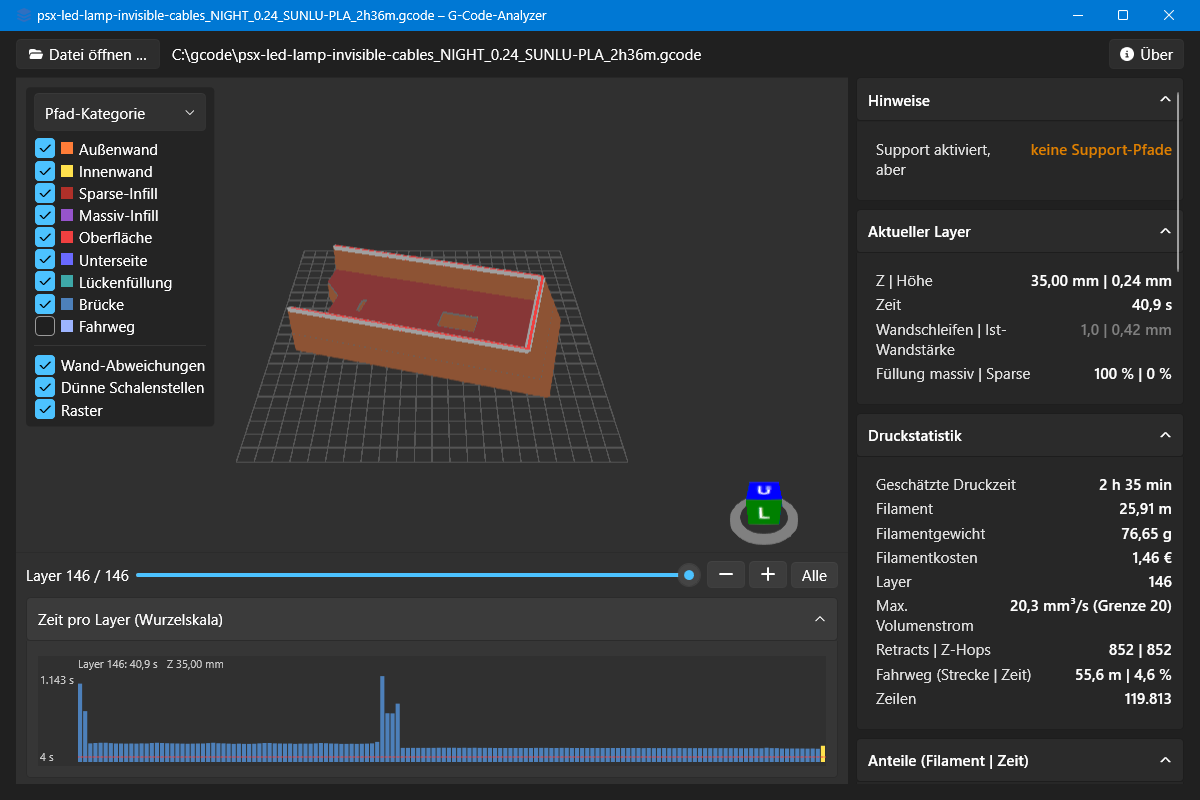
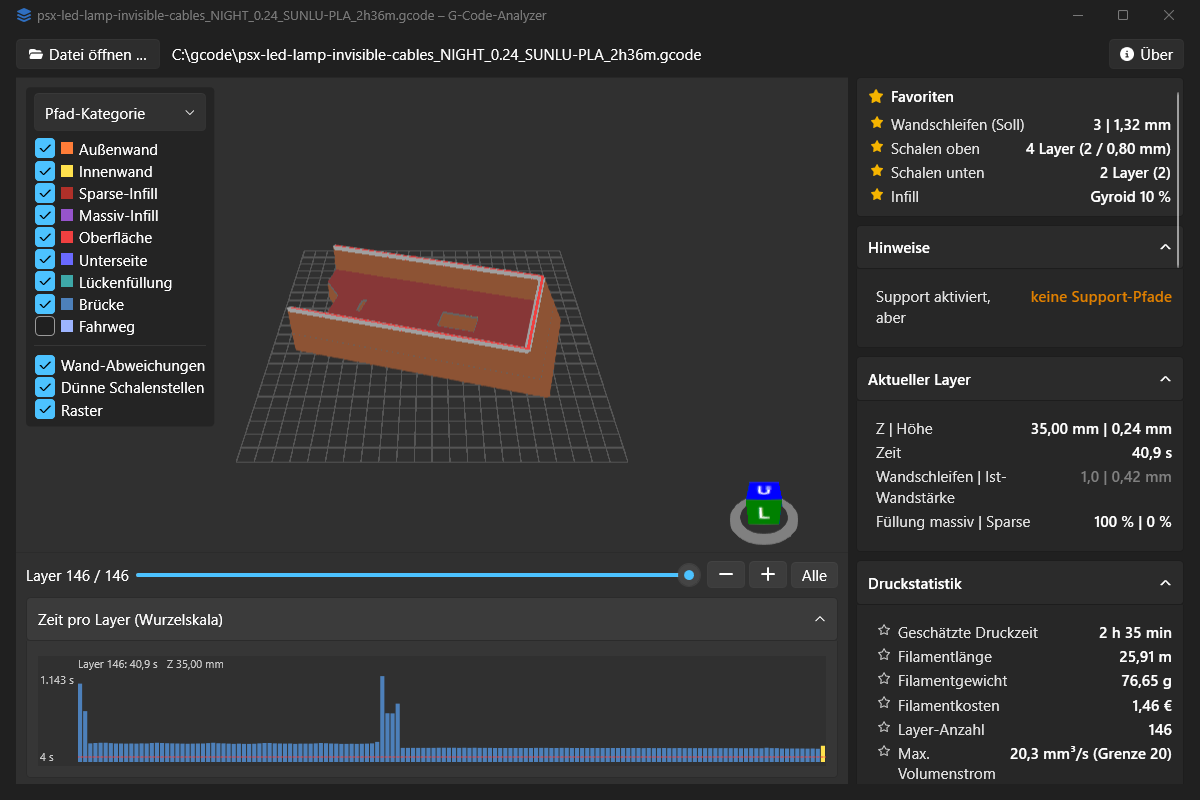
Favoriten oben in der Seitenleiste (#12)
Bereich Favoriten ganz oben, nicht einklappbar; jede Zeile außer in
Hinweise und Aktueller Layer per Stern anheftbar, Auswahl in
%AppData%\GcodeAnalyzer\favoriten.json. Standard: Wandschleifen (Soll),
Schalen oben/unten, Infill. Zeilen ohne Abschnitt eindeutig benannt,
Schalen eingestellt/effektiv und Infill Muster/Dichte zusammengefasst.

Closes #12

Claude-Session: https://claude.ai/code/session_0137NAZDBk3yrCHW3giu4LYJ

diff --git a/src/GcodeAnalyzer.App/MainWindow.xaml b/src/GcodeAnalyzer.App/MainWindow.xaml
@@ -5,6 +5,48 @@
         xmlns:local="clr-namespace:GcodeAnalyzer.App"
         Title="G-Code-Analyzer" Height="800" Width="1200" MinWidth="700" MinHeight="450"
         Icon="app.ico" AllowDrop="True" Drop="OnDrop" DragOver="OnDragOver">
+    <Window.Resources>
+        <BooleanToVisibilityConverter x:Key="BoolToVis"/>
+        <!-- Zeile der Seitenleiste: Stern zum Anheften, Beschriftung, Wert -->
+        <DataTemplate x:Key="RowTemplate">
+            <DockPanel Margin="0,2">
+                <Button DockPanel.Dock="Left" Click="OnStarClick" Padding="2" Margin="0,0,6,0" MinWidth="0" MinHeight="0"
+                        Background="Transparent" BorderThickness="0" VerticalAlignment="Top"
+                        Visibility="{Binding Pinnable, Converter={StaticResource BoolToVis}}"
+                        ToolTip="Als Favorit oben anzeigen" AutomationProperties.Name="{Binding Label, StringFormat=Favorit {0}}">
+                    <Path Width="12" Height="12" Stretch="Uniform">
+                        <Path.Style>
+                            <Style TargetType="Path">
+                                <Setter Property="Data" Value="{StaticResource Icon.star-regular}"/>
+                                <Setter Property="Fill" Value="{DynamicResource TextFillColorSecondaryBrush}"/>
+                                <Style.Triggers>
+                                    <DataTrigger Binding="{Binding IsFavorite}" Value="True">
+                                        <Setter Property="Data" Value="{StaticResource Icon.star}"/>
+                                        <Setter Property="Fill" Value="#F5B400"/>
+                                    </DataTrigger>
+                                </Style.Triggers>
+                            </Style>
+                        </Path.Style>
+                    </Path>
+                </Button>
+                <TextBlock DockPanel.Dock="Right" Text="{Binding Value}" FontWeight="SemiBold" MaxWidth="190"
+                           TextTrimming="CharacterEllipsis" ToolTip="{Binding Value}" Margin="8,0,0,0">
+                    <TextBlock.Style>
+                        <!-- Statusfarbe nur, wenn gesetzt; sonst Textfarbe des Themes -->
+                        <Style TargetType="TextBlock">
+                            <Setter Property="Foreground" Value="{Binding Brush}"/>
+                            <Style.Triggers>
+                                <DataTrigger Binding="{Binding Brush}" Value="{x:Null}">
+                                    <Setter Property="Foreground" Value="{DynamicResource TextFillColorPrimaryBrush}"/>
+                                </DataTrigger>
+                            </Style.Triggers>
+                        </Style>
+                    </TextBlock.Style>
+                </TextBlock>
+                <TextBlock Text="{Binding Label}" Foreground="{DynamicResource TextFillColorSecondaryBrush}" TextWrapping="Wrap"/>
+            </DockPanel>
+        </DataTemplate>
+    </Window.Resources>
     <Grid>
         <Grid.RowDefinitions>
             <RowDefinition Height="Auto"/>
@@ -124,36 +166,29 @@
 
         <ScrollViewer Grid.Row="1" Grid.Column="1" Margin="4,0,8,8" VerticalScrollBarVisibility="Auto">
             <StackPanel>
+                <!-- Favoriten: immer oben, nicht einklappbar -->
+                <Border Margin="0,0,0,8" Padding="12,8" CornerRadius="4" BorderThickness="1"
+                        Background="{DynamicResource CardBackgroundFillColorDefaultBrush}"
+                        BorderBrush="{DynamicResource CardStrokeColorDefaultBrush}">
+                    <StackPanel>
+                        <StackPanel Orientation="Horizontal" Margin="0,0,0,6">
+                            <Path Data="{StaticResource Icon.star}" Fill="#F5B400" Width="14" Height="14" Stretch="Uniform" VerticalAlignment="Center"/>
+                            <TextBlock Text="Favoriten" FontWeight="SemiBold" FontSize="15" Margin="8,0,0,0" VerticalAlignment="Center"/>
+                        </StackPanel>
+                        <ItemsControl x:Name="FavoriteList" ItemTemplate="{StaticResource RowTemplate}" FontSize="15"/>
+                        <TextBlock x:Name="FavoriteHint" TextWrapping="Wrap" Foreground="{DynamicResource TextFillColorSecondaryBrush}"
+                                   Text="Stern ☆ neben einem Wert anklicken, um ihn hier anzuzeigen" Visibility="Collapsed"/>
+                    </StackPanel>
+                </Border>
                 <ItemsControl x:Name="Sections">
                     <ItemsControl.ItemTemplate>
                         <DataTemplate>
                             <Expander Header="{Binding Title}" IsExpanded="True" Margin="0,0,0,8" FontWeight="SemiBold">
                                 <StackPanel>
-                                <ItemsControl ItemsSource="{Binding Rows}" Margin="8,4,0,0" FontWeight="Normal">
-                                    <ItemsControl.ItemTemplate>
-                                        <DataTemplate>
-                                            <DockPanel Margin="0,2">
-                                                <TextBlock DockPanel.Dock="Right" Text="{Binding Value}" FontWeight="SemiBold" MaxWidth="190"
-                                                           TextTrimming="CharacterEllipsis" ToolTip="{Binding Value}" Margin="8,0,0,0">
-                                                    <TextBlock.Style>
-                                                        <!-- Statusfarbe nur, wenn gesetzt; sonst Textfarbe des Themes -->
-                                                        <Style TargetType="TextBlock">
-                                                            <Setter Property="Foreground" Value="{Binding Brush}"/>
-                                                            <Style.Triggers>
-                                                                <DataTrigger Binding="{Binding Brush}" Value="{x:Null}">
-                                                                    <Setter Property="Foreground" Value="{DynamicResource TextFillColorPrimaryBrush}"/>
-                                                                </DataTrigger>
-                                                            </Style.Triggers>
-                                                        </Style>
-                                                    </TextBlock.Style>
-                                                </TextBlock>
-                                                <TextBlock Text="{Binding Label}" Foreground="{DynamicResource TextFillColorSecondaryBrush}" TextWrapping="Wrap"/>
-                                            </DockPanel>
-                                        </DataTemplate>
-                                    </ItemsControl.ItemTemplate>
-                                </ItemsControl>
-                                <!-- Vorschaubild aus der G-Code-Datei (nur im Abschnitt "Datei") -->
-                                <Image Source="{Binding Image}" Stretch="Uniform" MaxHeight="180" Margin="0,8,0,0"/>
+                                    <ItemsControl ItemsSource="{Binding Rows}" Margin="8,4,0,0" FontWeight="Normal"
+                                                  ItemTemplate="{StaticResource RowTemplate}"/>
+                                    <!-- Vorschaubild aus der G-Code-Datei (nur im Abschnitt "Datei") -->
+                                    <Image Source="{Binding Image}" Stretch="Uniform" MaxHeight="180" Margin="0,8,0,0"/>
                                 </StackPanel>
                             </Expander>
                         </DataTemplate>

diff --git a/src/GcodeAnalyzer.App/Icons.xaml b/src/GcodeAnalyzer.App/Icons.xaml
@@ -1,5 +1,5 @@
 <!-- Font Awesome Free 7.3.1 (https://fontawesome.com), Icons: CC BY 4.0 (https://creativecommons.org/licenses/by/4.0/).
-     Pfade aus @fortawesome/fontawesome-free/svgs/solid, damit die App ohne Internet auskommt. -->
+     Pfade aus @fortawesome/fontawesome-free/svgs (solid, star auch regular), damit die App ohne Internet auskommt. -->
 <ResourceDictionary xmlns="http://schemas.microsoft.com/winfx/2006/xaml/presentation"
                     xmlns:x="http://schemas.microsoft.com/winfx/2006/xaml">
     <Geometry x:Key="Icon.layer-group">F1 M232.5 5.2c14.9-6.9 32.1-6.9 47 0l218.6 101c8.5 3.9 13.9 12.4 13.9 21.8s-5.4 17.9-13.9 21.8l-218.6 101c-14.9 6.9-32.1 6.9-47 0L13.9 149.8C5.4 145.8 0 137.3 0 128s5.4-17.9 13.9-21.8L232.5 5.2zM48.1 218.4l164.3 75.9c27.7 12.8 59.6 12.8 87.3 0l164.3-75.9 34.1 15.8c8.5 3.9 13.9 12.4 13.9 21.8s-5.4 17.9-13.9 21.8l-218.6 101c-14.9 6.9-32.1 6.9-47 0L13.9 277.8C5.4 273.8 0 265.3 0 256s5.4-17.9 13.9-21.8l34.1-15.8zM13.9 362.2l34.1-15.8 164.3 75.9c27.7 12.8 59.6 12.8 87.3 0l164.3-75.9 34.1 15.8c8.5 3.9 13.9 12.4 13.9 21.8s-5.4 17.9-13.9 21.8l-218.6 101c-14.9 6.9-32.1 6.9-47 0L13.9 405.8C5.4 401.8 0 393.3 0 384s5.4-17.9 13.9-21.8z</Geometry>
@@ -8,4 +8,6 @@
     <Geometry x:Key="Icon.minus">F1 M0 256c0-17.7 14.3-32 32-32l384 0c17.7 0 32 14.3 32 32s-14.3 32-32 32L32 288c-17.7 0-32-14.3-32-32z</Geometry>
     <Geometry x:Key="Icon.plus">F1 M256 64c0-17.7-14.3-32-32-32s-32 14.3-32 32l0 160-160 0c-17.7 0-32 14.3-32 32s14.3 32 32 32l160 0 0 160c0 17.7 14.3 32 32 32s32-14.3 32-32l0-160 160 0c17.7 0 32-14.3 32-32s-14.3-32-32-32l-160 0 0-160z</Geometry>
     <Geometry x:Key="Icon.triangle-exclamation">F1 M256 0c14.7 0 28.2 8.1 35.2 21l216 400c6.7 12.4 6.4 27.4-.8 39.5S486.1 480 472 480L40 480c-14.1 0-27.2-7.4-34.4-19.5s-7.5-27.1-.8-39.5l216-400c7-12.9 20.5-21 35.2-21zm0 352a32 32 0 1 0 0 64 32 32 0 1 0 0-64zm0-192c-18.2 0-32.7 15.5-31.4 33.7l7.4 104c.9 12.5 11.4 22.3 23.9 22.3 12.6 0 23-9.7 23.9-22.3l7.4-104c1.3-18.2-13.1-33.7-31.4-33.7z</Geometry>
+    <Geometry x:Key="Icon.star">F1 M309.5-18.9c-4.1-8-12.4-13.1-21.4-13.1s-17.3 5.1-21.4 13.1L193.1 125.3 33.2 150.7c-8.9 1.4-16.3 7.7-19.1 16.3s-.5 18 5.8 24.4l114.4 114.5-25.2 159.9c-1.4 8.9 2.3 17.9 9.6 23.2s16.9 6.1 25 2L288.1 417.6 432.4 491c8 4.1 17.7 3.3 25-2s11-14.2 9.6-23.2L441.7 305.9 556.1 191.4c6.4-6.4 8.6-15.8 5.8-24.4s-10.1-14.9-19.1-16.3L383 125.3 309.5-18.9z</Geometry>
+    <Geometry x:Key="Icon.star-regular">F1 M288.1-32c9 0 17.3 5.1 21.4 13.1L383 125.3 542.9 150.7c8.9 1.4 16.3 7.7 19.1 16.3s.5 18-5.8 24.4L441.7 305.9 467 465.8c1.4 8.9-2.3 17.9-9.6 23.2s-17 6.1-25 2L288.1 417.6 143.8 491c-8 4.1-17.7 3.3-25-2s-11-14.2-9.6-23.2L134.4 305.9 20 191.4c-6.4-6.4-8.6-15.8-5.8-24.4s10.1-14.9 19.1-16.3l159.9-25.4 73.6-144.2c4.1-8 12.4-13.1 21.4-13.1zm0 76.8L230.3 158c-3.5 6.8-10 11.6-17.6 12.8l-125.5 20 89.8 89.9c5.4 5.4 7.9 13.1 6.7 20.7l-19.8 125.5 113.3-57.6c6.8-3.5 14.9-3.5 21.8 0l113.3 57.6-19.8-125.5c-1.2-7.6 1.3-15.3 6.7-20.7l89.8-89.9-125.5-20c-7.6-1.2-14.1-6-17.6-12.8L288.1 44.8z</Geometry>
 </ResourceDictionary>

diff --git a/src/GcodeAnalyzer.App/MainWindow.xaml.cs b/src/GcodeAnalyzer.App/MainWindow.xaml.cs
@@ -1,4 +1,6 @@
-using System.Globalization;
+using System.Collections.ObjectModel;
+using System.ComponentModel;
+using System.Globalization;
 using System.IO;
 using System.Windows;
 using System.Windows.Media;
@@ -9,7 +11,21 @@ using Microsoft.Win32;
 
 namespace GcodeAnalyzer.App;
 
-public record Row(string Label, string Value, Brush? Brush = null);
+/// <summary>Zeile der Seitenleiste; Label ist auch ohne Abschnitt eindeutig und Schlüssel der Favoriten.</summary>
+public sealed class Row(string label, string value, Brush? brush = null) : INotifyPropertyChanged
+{
+    public string Label { get; } = label;
+    public string Value { get; } = value;
+    public Brush? Brush { get; } = brush;
+    public bool Pinnable { get; init; } = true;
+    bool _isFavorite;
+    public bool IsFavorite
+    {
+        get => _isFavorite;
+        set { if (_isFavorite == value) return; _isFavorite = value; PropertyChanged?.Invoke(this, new(nameof(IsFavorite))); }
+    }
+    public event PropertyChangedEventHandler? PropertyChanged;
+}
 public record Section(string Title, IReadOnlyList<Row> Rows) { public ImageSource? Image { get; init; } }
 public record LegendItem(PathCategory Category, string Name, Brush Brush) { public bool IsVisible { get; set; } }
 
@@ -18,12 +34,17 @@ public partial class MainWindow : Window
     static readonly CultureInfo De = CultureInfo.GetCultureInfo("de-DE");
     PathScene? _scene;
     AnalysisResult? _result;
-    readonly System.Collections.ObjectModel.ObservableCollection<Row> _layerRows = [];
+    readonly ObservableCollection<Row> _layerRows = [];
+    readonly ObservableCollection<Row> _favoriteRows = [];
+    readonly HashSet<string> _favorites = Favorites.Load();
+    List<Section> _sections = [];
 
     public MainWindow()
     {
         InitializeComponent();
         Viewport.EffectsManager = new HelixToolkit.SharpDX.DefaultEffectsManager();
+        FavoriteList.ItemsSource = _favoriteRows;
+        RefreshFavorites();
         // "Öffnen mit" bzw. Start mit Dateipfad als Argument
         if (Environment.GetCommandLineArgs() is [_, var file, ..]) Loaded += (_, _) => _ = Load(file);
     }
@@ -87,52 +108,52 @@ public partial class MainWindow : Window
         Title = $"{r.FileName} – G-Code-Analyzer";
         _result = r;
 
-        var hints = r.Warnings.Select(w => new Row(w, "", new SolidColorBrush(Color.FromRgb(0xE0, 0x80, 0x00)))).ToList();
+        var hints = r.Warnings.Select(w => Info(w, "", new SolidColorBrush(Color.FromRgb(0xE0, 0x80, 0x00)))).ToList();
         if (r.ShortLayers.Count > 0)
-            hints.Add(new($"{r.ShortLayers.Count} Layer unter {N(r.MinLayerTime, 0)} s",
+            hints.Add(Info($"{r.ShortLayers.Count} Layer unter {N(r.MinLayerTime, 0)} s",
                 string.Join(", ", r.ShortLayers.Take(8).Select(i => i + 1)) + (r.ShortLayers.Count > 8 ? " …" : "")));
 
         var walls = r.Walls;
         var under = walls.Layers.Where(w => w.Status == WallStatus.Underrun).ToList();
         var expected = walls.Layers.Where(w => w.Status == WallStatus.ExpectedDeviation).ToList();
         if (under.Count > 0)
-            hints.Add(new($"Wand-Unterschreitung in {under.Count} Layern",
+            hints.Add(Info($"Wand-Unterschreitung in {under.Count} Layern",
                 string.Join(", ", under.Take(8).Select(w => w.Layer + 1)) + (under.Count > 8 ? " …" : ""), StatusBrush(WallStatus.Underrun)));
         var minWall = walls.Layers.MinBy(w => w.Loops);
         if (r.OverFlowLayers.Count > 0)
-            hints.Add(new($"Volumenstrom > {N(r.VolumetricFlowLimit, 0)} mm³/s in {r.OverFlowLayers.Count} Layern",
+            hints.Add(Info($"Volumenstrom > {N(r.VolumetricFlowLimit, 0)} mm³/s in {r.OverFlowLayers.Count} Layern",
                 string.Join(", ", r.OverFlowLayers.Take(8).Select(i => i + 1)) + (r.OverFlowLayers.Count > 8 ? " …" : ""),
                 new SolidColorBrush(PathScene.UnderrunColor)));
         var sup = r.Support;
         var warn = new SolidColorBrush(Color.FromRgb(0xE0, 0x80, 0x00));
         if (sup.Contradiction)
-            hints.Add(new("Support aktiviert, aber", "keine Support-Pfade", warn));
+            hints.Add(Info("Support aktiviert, aber", "keine Support-Pfade", warn));
         var shells = r.Shells;
         if (shells.ThinSpots.Count > 0)
-            hints.Add(new("Dünne Schalenstellen", $"{N(shells.ThinSpots.Count, 0)} Stellen", new SolidColorBrush(PathScene.ThinShellColor)));
+            hints.Add(Info("Dünne Schalenstellen", $"{N(shells.ThinSpots.Count, 0)} Stellen", new SolidColorBrush(PathScene.ThinShellColor)));
+        // "Schalen oben" = effektiv, in Klammern eingestellt (Anzahl / Mindestdicke)
         Row[] ShellRows(string side, ShellSide s) => [
-            new($"{side} eingestellt", s.SetThickness > 0 ? $"{s.SetLayers} Layer | {N(s.SetThickness, 2)} mm" : $"{s.SetLayers} Layer"),
-            new($"{side} effektiv", $"{s.Effective} Layer"),
-            new($"{side} gemessen", s.MeasuredMin is { } mn ? $"min. {mn} | Ø {N(s.MeasuredAvg ?? 0, 1)}" : "–",
+            new($"Schalen {side}", $"{s.Effective} Layer ({s.SetLayers}" + (s.SetThickness > 0 ? $" / {N(s.SetThickness, 2)} mm)" : ")")),
+            new($"Schalen {side} gemessen", s.MeasuredMin is { } mn ? $"min. {mn} | Ø {N(s.MeasuredAvg ?? 0, 1)}" : "–",
                 s.MeasuredMin < s.Effective ? new SolidColorBrush(PathScene.ThinShellColor) : null),
         ];
 
-        Sections.ItemsSource = new[]
+        _sections = new[]
         {
             new Section("Druckstatistik", [
                 new("Geschätzte Druckzeit", r.EstimatedTime is { } t ? Duration(t) : "–"),
-                new("Filament", r.FilamentLengthMm is { } mm ? $"{N(mm / 1000, 2)} m" : "–"),
+                new("Filamentlänge", r.FilamentLengthMm is { } mm ? $"{N(mm / 1000, 2)} m" : "–"),
                 new("Filamentgewicht", r.FilamentWeightG is { } g ? $"{N(g, 2)} g" : "–"),
                 new("Filamentkosten", r.FilamentCost is { } c ? $"{N(c, 2)} €" : "–"),
-                new("Layer", N(r.LayerCount, 0)),
+                new("Layer-Anzahl", N(r.LayerCount, 0)),
                 new("Max. Volumenstrom", $"{N(r.MaxVolumetricFlow, 1)} mm³/s (Grenze {N(r.VolumetricFlowLimit, 0)})",
                     r.OverFlowLayers.Count > 0 ? new SolidColorBrush(PathScene.UnderrunColor) : null),
                 new("Retracts | Z-Hops", $"{N(r.RetractCount, 0)} | {N(r.ZHopCount, 0)}"),
                 new("Fahrweg (Strecke | Zeit)", $"{N(r.TravelDistanceMm / 1000, 1)} m | {N(r.Shares.GetValueOrDefault(PathCategory.Travel)?.TimePercent ?? 0, 1)} %"),
-                new("Zeilen", N(r.LineCount, 0)),
+                new("G-Code-Zeilen", N(r.LineCount, 0)),
             ]),
             new Section("Anteile (Filament | Zeit)", r.Shares.OrderByDescending(kv => kv.Value.TimePercent)
-                .Select(kv => new Row(PathScene.Styles[kv.Key].Name, $"{N(kv.Value.FilamentPercent, 1)} % | {N(kv.Value.TimePercent, 1)} %"))
+                .Select(kv => new Row($"Anteil {PathScene.Styles[kv.Key].Name}", $"{N(kv.Value.FilamentPercent, 1)} % | {N(kv.Value.TimePercent, 1)} %"))
                 .ToList()),
             new Section("Abmessungen", [
                 new("Breite (X)", $"{N(r.Width, 1)} mm"),
@@ -148,40 +169,69 @@ public partial class MainWindow : Window
                 new("Filamenttyp", r.FilamentType ?? "–"),
             ]),
             new Section("Wände", [
-                new("Soll-Wandstärke", walls.TargetLoops > 0 ? $"{walls.TargetLoops} Schleifen | {N(walls.TargetThickness, 2)} mm" : "–"),
-                new("Ist-Wandstärke min.", minWall is null ? "–" : $"{N(minWall.Loops, 1)} Schleifen | {N(minWall.Thickness, 2)} mm",
+                new("Wandschleifen (Soll)", walls.TargetLoops > 0 ? $"{walls.TargetLoops} | {N(walls.TargetThickness, 2)} mm" : "–",
+                    under.Count > 0 ? StatusBrush(WallStatus.Underrun) : null),
+                new("Wandschleifen (Ist, min.)", minWall is null ? "–" : $"{N(minWall.Loops, 1)} | {N(minWall.Thickness, 2)} mm",
                     minWall is null ? null : StatusBrush(minWall.Status)),
-                new("Layer wie Soll", N(walls.Layers.Count(w => w.Status == WallStatus.Ok), 0)),
-                new("Erwartete Abweichung", N(expected.Count, 0), StatusBrush(WallStatus.ExpectedDeviation)),
+                new("Wand-Layer wie Soll", N(walls.Layers.Count(w => w.Status == WallStatus.Ok), 0)),
+                new("Erwartete Wand-Abweichung", N(expected.Count, 0), StatusBrush(WallStatus.ExpectedDeviation)),
                 new("Wand-Unterschreitung", N(under.Count, 0), under.Count > 0 ? StatusBrush(WallStatus.Underrun) : null),
             ]),
-            new Section("Schalen", [.. ShellRows("Oben", shells.Top), .. ShellRows("Unten", shells.Bottom),
+            new Section("Schalen", [.. ShellRows("oben", shells.Top), .. ShellRows("unten", shells.Bottom),
                 new("Dünne Schalenstellen", N(shells.ThinSpots.Count, 0), shells.ThinSpots.Count > 0 ? new SolidColorBrush(PathScene.ThinShellColor) : null),
             ]),
             new Section("Infill", [
-                new("Muster", r.InfillPattern is { Length: > 0 } pat ? char.ToUpper(pat[0]) + pat[1..] : "–"),
-                new("Dichte", r.InfillDensity is { } dens ? $"{N(dens, 0)} %" : "–"),
-                new("Linienbreite", r.InfillLineWidth is { } lw ? $"{N(lw, 2)} mm" : "–"),
+                new("Infill", string.Join(" ", new[] {
+                    r.InfillPattern is { Length: > 0 } pat ? char.ToUpper(pat[0]) + pat[1..] : null,
+                    r.InfillDensity is { } dens ? $"{N(dens, 0)} %" : null }.Where(x => x != null)) is { Length: > 0 } inf ? inf : "–"),
+                new("Infill-Linienbreite", r.InfillLineWidth is { } lw ? $"{N(lw, 2)} mm" : "–"),
                 new("Sparse-Infill (Filament | Zeit)", r.Shares.TryGetValue(PathCategory.SparseInfill, out var sp)
                     ? $"{N(sp.FilamentPercent, 1)} % | {N(sp.TimePercent, 1)} %" : "–"),
                 new("Layer mit massiver Füllung", N(r.Layers.Count(l => l.SolidFillMm > 0), 0)),
                 new("Layer nur mit Sparse-Infill", N(r.Layers.Count(l => l.SolidFillMm == 0 && l.SparseFillMm > 0), 0)),
             ]),
             new Section("Support", [
-                new("Aktiviert", sup.Enabled ? "ja" : "nein"),
-                new("Typ", sup.Type ?? "–"),
-                new("Nur auf Druckbett", sup.BuildPlateOnly is { } bp ? (bp ? "ja" : "nein") : "–"),
+                new("Support aktiviert", sup.Enabled ? "ja" : "nein"),
+                new("Support-Typ", sup.Type ?? "–"),
+                new("Support nur auf Druckbett", sup.BuildPlateOnly is { } bp ? (bp ? "ja" : "nein") : "–"),
                 new("Support-Pfade", sup.HasPaths ? "vorhanden" : "keine", sup.Contradiction ? warn : null),
-                new("Anteil (Filament | Zeit)", sup.HasPaths ? $"{N(sup.FilamentPercent, 1)} % | {N(sup.TimePercent, 1)} %" : "–"),
+                new("Support-Anteil (Filament | Zeit)", sup.HasPaths ? $"{N(sup.FilamentPercent, 1)} % | {N(sup.TimePercent, 1)} %" : "–"),
             ]),
             new Section("Datei", [
-                new("Name", r.FileName),
-                new("Größe", $"{N(r.FileSize / 1024.0 / 1024.0, 1)} MB"),
+                new("Dateiname", r.FileName),
+                new("Dateigröße", $"{N(r.FileSize / 1024.0 / 1024.0, 1)} MB"),
                 new("Slicer", r.SlicerName is null ? "unbekannt" : $"{r.SlicerName} {r.SlicerVersion}"),
             ]) { Image = ToImage(r.Thumbnail) },
         }.Prepend(new Section("Aktueller Layer", _layerRows))
          .Prepend(new Section("Hinweise", hints)).Where(sec => sec.Rows.Count > 0 || sec.Rows == _layerRows).ToList();
+        Sections.ItemsSource = _sections;
+        RefreshFavorites();
         ShowScene(r);
+    }
+
+    static Row Info(string label, string value, Brush? brush = null) => new(label, value, brush) { Pinnable = false };
+
+    void OnStarClick(object sender, RoutedEventArgs e)
+    {
+        if (sender is not FrameworkElement { DataContext: Row row }) return;
+        if (!_favorites.Remove(row.Label)) _favorites.Add(row.Label);
+        Favorites.Save(_favorites);
+        RefreshFavorites();
+    }
+
+    /// <summary>Sterne setzen und Favoriten in Reihenfolge der Seitenleiste oben anzeigen.</summary>
+    void RefreshFavorites()
+    {
+        _favoriteRows.Clear();
+        foreach (var row in _sections.SelectMany(sec => sec.Rows).Where(row => row.Pinnable))
+        {
+            row.IsFavorite = _favorites.Contains(row.Label);
+            if (row.IsFavorite) _favoriteRows.Add(row);
+        }
+        FavoriteHint.Visibility = _favoriteRows.Count == 0 ? Visibility.Visible : Visibility.Collapsed;
+        if (_result == null && _favoriteRows.Count == 0 && _favorites.Count > 0)
+            FavoriteHint.Text = "Werte erscheinen nach dem Öffnen einer Datei";
+        else FavoriteHint.Text = "Stern ☆ neben einem Wert anklicken, um ihn hier anzuzeigen";
     }
 
     void UpdateLayerRows(int i)
@@ -190,11 +240,11 @@ public partial class MainWindow : Window
         if (_result is null || i < 0 || i >= _result.LayerCount) return;
         var l = _result.Layers[i];
         double fill = l.SolidFillMm + l.SparseFillMm;
-        _layerRows.Add(new("Z | Höhe", $"{N(l.Z, 2)} mm | {N(l.Height, 2)} mm"));
-        _layerRows.Add(new("Zeit", $"{N(l.Time, 1)} s"));
+        _layerRows.Add(Info("Z | Höhe", $"{N(l.Z, 2)} mm | {N(l.Height, 2)} mm"));
+        _layerRows.Add(Info("Zeit", $"{N(l.Time, 1)} s"));
         if (_result.Walls.Layers.FirstOrDefault(w => w.Layer == i) is { } lw)
-            _layerRows.Add(new("Wandschleifen | Ist-Wandstärke", $"{N(lw.Loops, 1)} | {N(lw.Thickness, 2)} mm", StatusBrush(lw.Status)));
-        _layerRows.Add(new("Füllung massiv | Sparse", fill > 0 ? $"{N(l.SolidFillMm / fill * 100, 0)} % | {N(l.SparseFillMm / fill * 100, 0)} %" : "–"));
+            _layerRows.Add(Info("Wandschleifen | Ist-Wandstärke", $"{N(lw.Loops, 1)} | {N(lw.Thickness, 2)} mm", StatusBrush(lw.Status)));
+        _layerRows.Add(Info("Füllung massiv | Sparse", fill > 0 ? $"{N(l.SolidFillMm / fill * 100, 0)} % | {N(l.SparseFillMm / fill * 100, 0)} %" : "–"));
     }
 
     void ShowScene(AnalysisResult r)

diff --git a/src/GcodeAnalyzer.App/Favorites.cs b/src/GcodeAnalyzer.App/Favorites.cs
@@ -1,0 +1,34 @@
+using System.IO;
+using System.Text.Json;
+
+namespace GcodeAnalyzer.App;
+
+/// <summary>Favoriten (angeheftete Zeilen der Seitenleiste) als Liste ihrer Beschriftungen in %AppData%\GcodeAnalyzer.</summary>
+public static class Favorites
+{
+    static readonly string FilePath = Path.Combine(
+        Environment.GetFolderPath(Environment.SpecialFolder.ApplicationData), "GcodeAnalyzer", "favoriten.json");
+
+    public static readonly string[] Defaults = ["Wandschleifen (Soll)", "Schalen oben", "Schalen unten", "Infill"];
+
+    public static HashSet<string> Load()
+    {
+        try
+        {
+            if (File.Exists(FilePath))
+                return JsonSerializer.Deserialize<HashSet<string>>(File.ReadAllText(FilePath)) ?? [];
+        }
+        catch (Exception e) when (e is IOException or JsonException or UnauthorizedAccessException) { }
+        return [.. Defaults];
+    }
+
+    public static void Save(HashSet<string> favorites)
+    {
+        try
+        {
+            Directory.CreateDirectory(Path.GetDirectoryName(FilePath)!);
+            File.WriteAllText(FilePath, JsonSerializer.Serialize(favorites.Order()));
+        }
+        catch (Exception e) when (e is IOException or UnauthorizedAccessException) { } // Favoriten sind Komfort, kein Absturzgrund
+    }
+}

diff --git a/README.md b/README.md
@@ -6,6 +6,7 @@ Windows-Programm, das fertig geslicte G-Code-Dateien auswertet und in 3D zeigt. 
 
 ## Funktionen
 
+- **Favoriten** ganz oben in der Seitenleiste: Wandschleifen, Schalenschichten oben und unten sowie Infill-Muster und -Dichte auf einen Blick. Jede Zeile lässt sich per Stern anheften oder lösen, die Auswahl bleibt gespeichert.
 - **3D-Ansicht** aller Druckpfade mit Layer-Regler. Der aktuelle Layer ist hervorgehoben, Pfad-Kategorien, Fahrwege und Druckbett-Raster lassen sich einzeln ein- und ausblenden.
 - **Einfärbung** nach Pfad-Kategorie, Geschwindigkeit, Volumenstrom oder Layerzeit.
 - **Wände:**

diff --git a/CONTEXT.md b/CONTEXT.md
@@ -87,3 +87,9 @@ Ort über (oder unter) Sparse-Infill, an dem weniger gemessene als effektive Sch
 
 **Support-Widerspruch**:
 Support ist in den Slicer-Einstellungen aktiviert, die G-Code-Datei enthält aber keine Support-Pfade.
+
+### Oberfläche
+
+**Favorit**:
+Eine angeheftete Zeile der Seitenleiste, die zusätzlich ganz oben steht; gilt für jede geöffnete G-Code-Datei.
+_Avoid_: Lesezeichen, Pin
